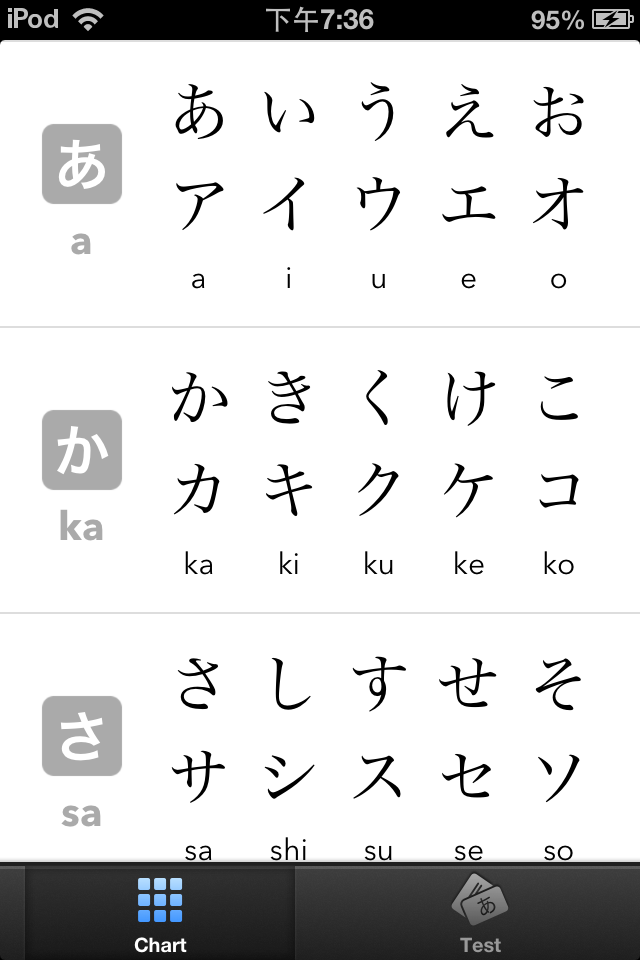
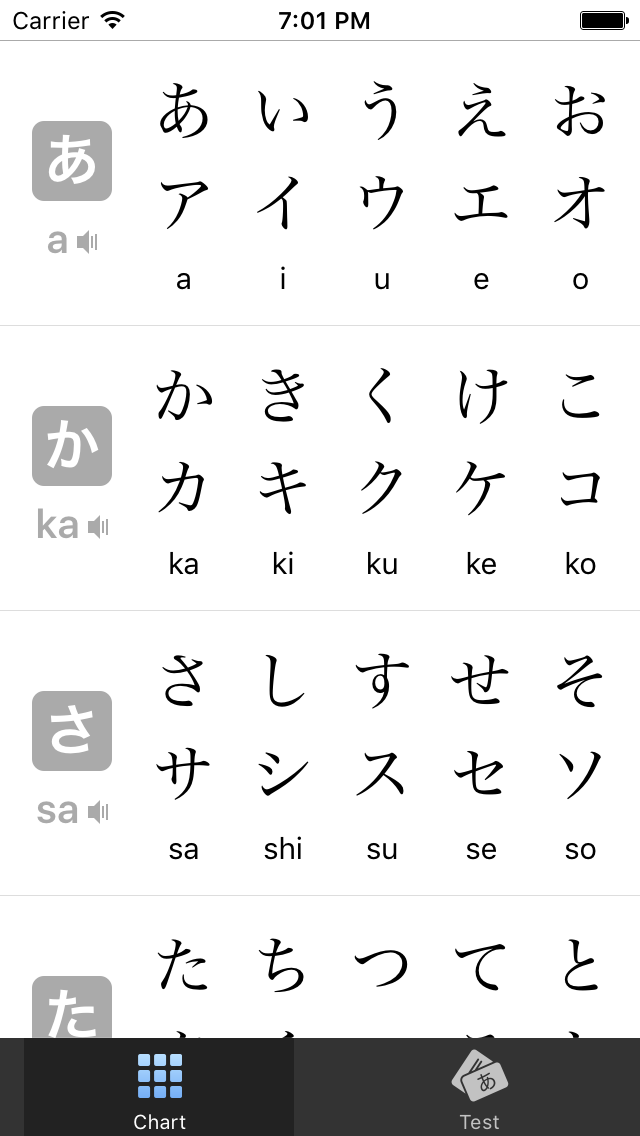
Update screenshots

diff --git a/README.md b/README.md
@@ -4,7 +4,11 @@
 
 [http://xhacker.im/cryptomeria](http://xhacker.im/cryptomeria)
 
-Helping you learn Japanese kana with joy, for both iPhone and iPad.
+Learn Japanese kana with joy, for iPhone and iPad.
+
+* Kana chart with pronunciation
+* Test yourself through the intuitive interface
+* Start with the first 5, and then build 5 at a time
 
 ## Screenshots
 
